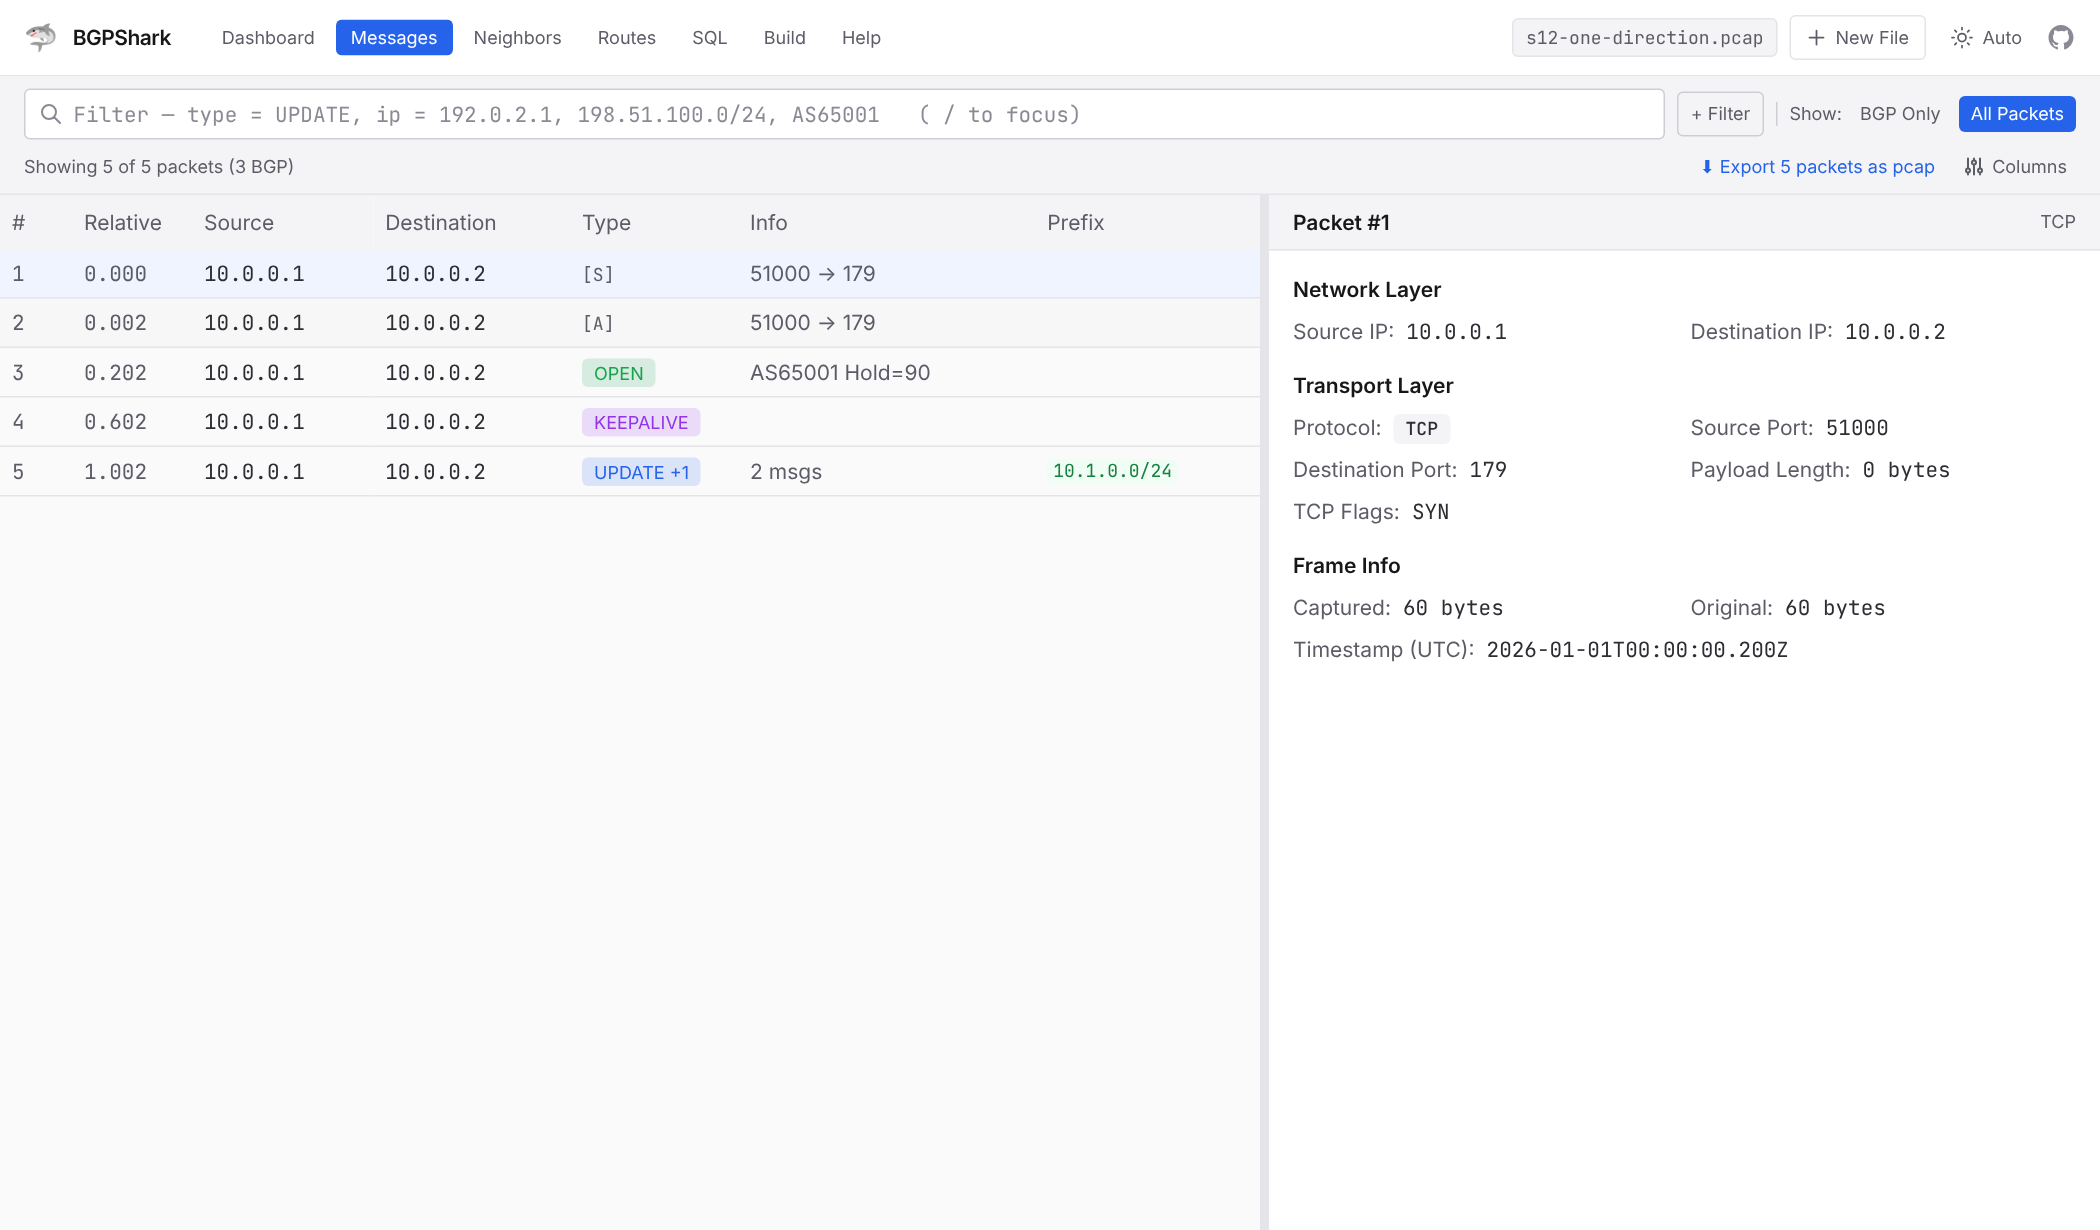
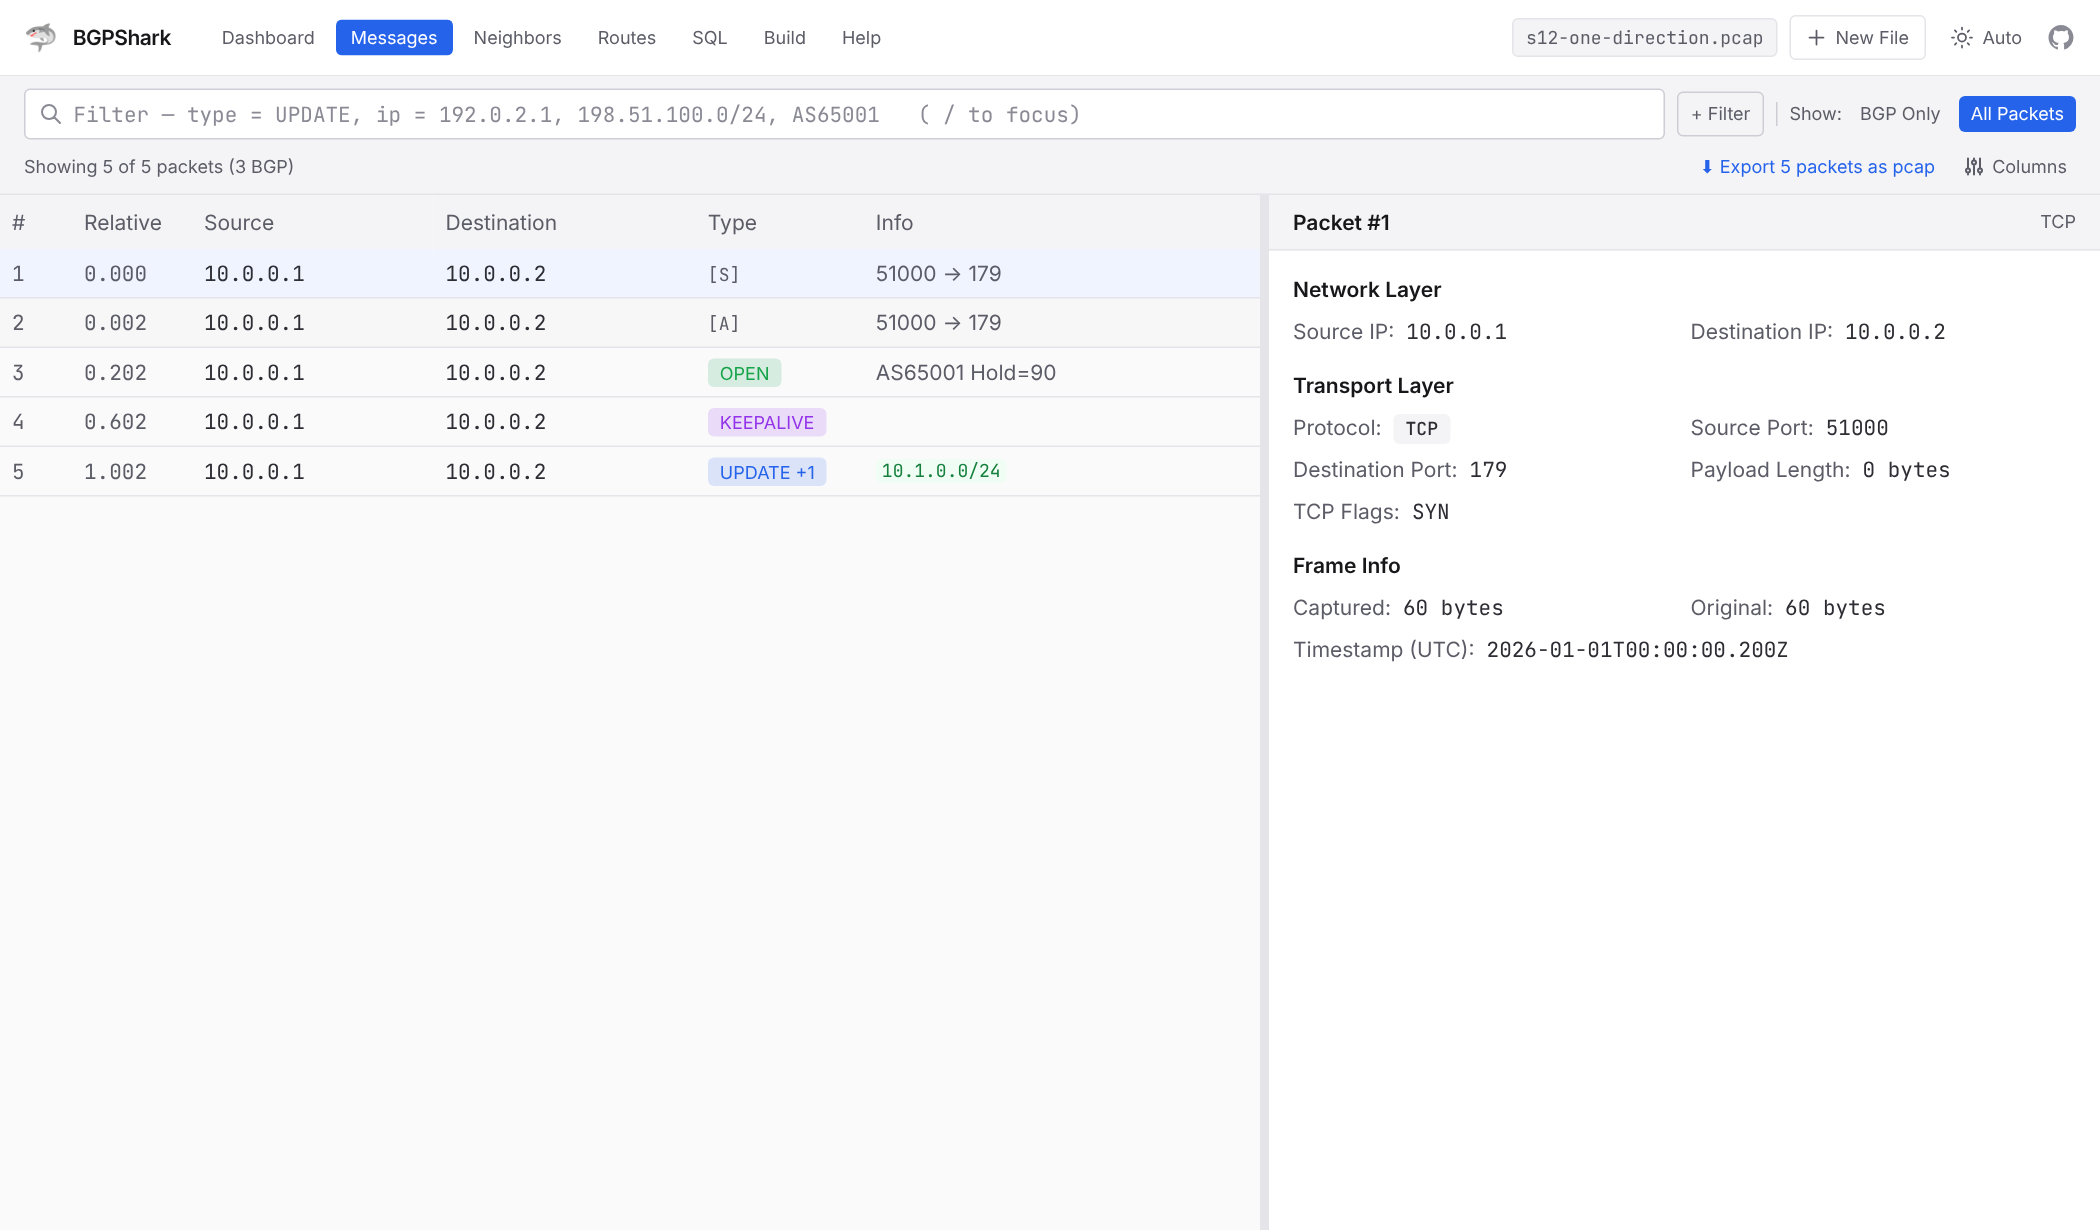
Merge the packet list's Prefix column into Info and drop Clear Filter
Info restated what its neighbours already said: "4 msgs" beside the Type
column's "UPDATE +3", and "2 withdrawn" beside the Prefix column's two
struck-through prefixes. Info now carries an UPDATE's prefixes itself, the
way Wireshark's Info says what a frame is about, and other messages keep
their one-line summary. A saved column set that kept Prefix is mapped onto
Info, so nobody loses their prefixes.

"Clear Filter" did what the x inside the filter box does; the x now has an
accessible name instead.

Closes #87

Claude-Session: https://claude.ai/code/session_016RsczsLRR1XyFcgTKUb7pD

diff --git a/src/components/common/PacketList.tsx b/src/components/common/PacketList.tsx
@@ -167,16 +167,36 @@ const ALL_COLUMNS: ColumnDef[] = [
     },
   },
   {
+    // One column for "what this frame says", the way Wireshark's Info works:
+    // an UPDATE says it with its prefixes, everything else with a line of text.
+    // Prefixes used to have a column of their own beside this one, which left
+    // Info repeating them as counts ("2 withdrawn") or repeating the Type
+    // column's "+3" as "4 msgs".
     id: 'info',
     label: 'Info',
     getValue: (dp) => {
       if (dp.kind === 'bgp') {
         const messages = dp.packet.messages
-        if (messages.length === 1) {
-          return <span className="text-muted truncate">{getMessageSummary(messages[0])}</span>
+        const summary = summarizePacketPrefixes(messages)
+        if (summary && (summary.announced.shown.length > 0 || summary.withdrawn.shown.length > 0)) {
+          const { announced, withdrawn } = summary
+          return (
+            <span className="flex items-center gap-1 min-w-0 overflow-hidden">
+              <PrefixGroupCell group={announced} className="bg-ok-subtle text-ok" />
+              <PrefixGroupCell
+                group={withdrawn}
+                className="bg-critical-subtle text-critical line-through"
+              />
+            </span>
+          )
         }
-        // Multiple messages - show count
-        return <span className="text-muted truncate">{messages.length} msgs</span>
+        // An UPDATE carrying no prefixes is either End-of-RIB or an
+        // attribute-only message; saying so beats a blank cell.
+        if (summary?.endOfRib) {
+          return <span className="text-xs bg-accent-subtle text-accent px-1.5 rounded">End-of-RIB</span>
+        }
+        const text = messages.map(getMessageSummary).filter(Boolean).join('; ')
+        return <span className="text-muted truncate">{text}</span>
       }
       // For generic packets, show port info
       const src = dp.packet.srcPort ?? '?'
@@ -193,35 +213,6 @@ const ALL_COLUMNS: ColumnDef[] = [
         return <span className="font-mono text-muted">{dp.packet.payloadLength}</span>
       }
       return <span className="font-mono text-muted">-</span>
-    },
-  },
-  {
-    id: 'prefix',
-    label: 'Prefix',
-    getValue: (dp) => {
-      if (dp.kind !== 'bgp') return null
-      const summary = summarizePacketPrefixes(dp.packet.messages)
-      if (!summary) return null
-
-      const { announced, withdrawn } = summary
-      if (announced.shown.length === 0 && withdrawn.shown.length === 0) {
-        // An UPDATE carrying no prefixes is either End-of-RIB or an
-        // attribute-only message; saying so beats a blank cell that looks like
-        // the column failed to find anything.
-        return summary.endOfRib ? (
-          <span className="text-xs bg-accent-subtle text-accent px-1.5 rounded">End-of-RIB</span>
-        ) : null
-      }
-
-      return (
-        <span className="flex items-center gap-1 min-w-0 overflow-hidden">
-          <PrefixGroupCell group={announced} className="bg-ok-subtle text-ok" />
-          <PrefixGroupCell
-            group={withdrawn}
-            className="bg-critical-subtle text-critical line-through"
-          />
-        </span>
-      )
     },
   },
   {

diff --git a/src/hooks/usePacketColumns.ts b/src/hooks/usePacketColumns.ts
@@ -21,7 +21,6 @@ export type PacketColumnId =
   | 'protocol'
   | 'type'
   | 'info'
-  | 'prefix'
   | 'asPath'
   | 'nlriCount'
   | 'withdrawnCount'
@@ -41,18 +40,17 @@ export const PACKET_COLUMNS: { id: PacketColumnId; label: string }[] = [
   { id: 'type', label: 'Type' },
   { id: 'info', label: 'Info' },
   { id: 'length', label: 'Len' },
-  { id: 'prefix', label: 'Prefix' },
   { id: 'asPath', label: 'AS Path' },
   { id: 'nlriCount', label: 'NLRI' },
   { id: 'withdrawnCount', label: 'WR' },
 ]
 
 /**
- * `prefix` is on by default because the question people open a BGP capture
- * with — which routes moved — otherwise needs the column picker found first
- * and then a click into every UPDATE. The rest are the frame identity columns.
+ * Info carries an UPDATE's prefixes, so the question people open a BGP capture
+ * with — which routes moved — is answered without the column picker. The rest
+ * are the frame identity columns.
  */
-export const DEFAULT_PACKET_COLUMNS: PacketColumnId[] = ['index', 'time', 'src', 'dst', 'type', 'info', 'prefix']
+export const DEFAULT_PACKET_COLUMNS: PacketColumnId[] = ['index', 'time', 'src', 'dst', 'type', 'info']
 
 const STORAGE_KEY = 'bgpshark-visible-columns'
 
@@ -65,9 +63,11 @@ function loadSavedColumns(): PacketColumnId[] {
   try {
     const saved = localStorage.getItem(STORAGE_KEY)
     if (saved) {
-      const parsed = JSON.parse(saved) as string[]
+      // The Prefix column was folded into Info. Someone who kept Prefix but
+      // hid Info still wants to see prefixes, so the one becomes the other.
+      const parsed = (JSON.parse(saved) as string[]).map((id) => (id === 'prefix' ? 'info' : id))
       const valid = parsed.filter((id): id is PacketColumnId => PACKET_COLUMNS.some((col) => col.id === id))
-      if (valid.length > 0) return valid
+      if (valid.length > 0) return [...new Set(valid)]
     }
   } catch {
     // Unreadable or blocked storage falls back to the defaults.

diff --git a/tests/e2e/info-column.e2e.ts b/tests/e2e/info-column.e2e.ts
@@ -1,0 +1,41 @@
+import { test, expect } from '@playwright/test'
+import { applyFilter, loadSample } from './helpers'
+
+/**
+ * The packet list's Info column, which also carries an UPDATE's prefixes.
+ *
+ * Prefixes used to sit in a column of their own, with Info beside it restating
+ * them as counts ("2 withdrawn") or restating the Type column ("4 msgs"). One
+ * column now says it once.
+ */
+test.describe('the Info column', () => {
+  test('an UPDATE shows its prefixes, and nothing restates them', async ({ page }) => {
+    await loadSample(page)
+    await applyFilter(page, 'type = UPDATE')
+
+    await expect(page.getByRole('columnheader', { name: 'Info' })).toBeVisible()
+    await expect(page.getByRole('columnheader', { name: 'Prefix', exact: true })).toHaveCount(0)
+    const rows = page.locator('tbody [role="row"]')
+    await expect(rows.first()).toContainText(/\d+\.\d+\.\d+\.\d+\/\d+/)
+    await expect(rows.filter({ hasText: /\d+ msgs|\d+ withdrawn|\d+ announced/ })).toHaveCount(0)
+  })
+
+  test('a saved column set that kept Prefix keeps seeing prefixes', async ({ page }) => {
+    await page.addInitScript(() => {
+      localStorage.setItem('bgpshark-visible-columns', JSON.stringify(['index', 'type', 'prefix']))
+    })
+    await loadSample(page)
+    await applyFilter(page, 'type = UPDATE')
+
+    await expect(page.getByRole('columnheader', { name: 'Info' })).toBeVisible()
+    await expect(page.locator('tbody [role="row"]').first()).toContainText(/\d+\.\d+\.\d+\.\d+\/\d+/)
+  })
+
+  test('the filter is cleared from inside the box, with no second button', async ({ page }) => {
+    await loadSample(page)
+    await applyFilter(page, 'type = UPDATE')
+    await expect(page.getByRole('button', { name: 'Clear Filter', exact: true })).toHaveCount(0)
+    await page.getByRole('button', { name: 'Clear filter', exact: true }).click()
+    await expect(page.locator('input[type="text"]').first()).toHaveValue('')
+  })
+})

diff --git a/src/lib/packet-columns.ts b/src/lib/packet-columns.ts
@@ -44,9 +44,10 @@ export interface PacketPrefixSummary {
  * Returns null when the packet carries no UPDATE at all, so the caller renders
  * an empty cell rather than an empty-looking one.
  *
- * Totals come from `countUpdatePrefixes` so this cell can never disagree with
- * the Info column's counts, and only the first few prefixes are ever formatted:
- * a full-table UPDATE carries thousands, and this runs per rendered row.
+ * Totals come from `countUpdatePrefixes` so the "+N" overflow can never
+ * disagree with the detail view's counts, and only the first few prefixes are
+ * ever formatted: a full-table UPDATE carries thousands, and this runs per
+ * rendered row.
  */
 export function summarizePacketPrefixes(
   messages: BgpMessage[],

diff --git a/src/pages/MessagesPage.tsx b/src/pages/MessagesPage.tsx
@@ -613,14 +613,7 @@ function MessagesView() {
             />
           </div>
           <AddFilterPopover valuesFor={valuesFor} onAdd={addCondition} />
-          {query && (
-            <button
-              onClick={() => setQuery('')}
-              className="shrink-0 px-2 py-1.5 text-xs text-muted hover:bg-surface-raised rounded transition-colors"
-            >
-              Clear Filter
-            </button>
-          )}
+          {/* Clearing is the × inside the box; a second button did the same. */}
 
           <div className="h-4 w-px bg-hair-strong shrink-0" />
 

diff --git a/tests/e2e/time-axis.e2e.ts b/tests/e2e/time-axis.e2e.ts
@@ -21,7 +21,7 @@ test.describe('one time axis across filters and screens', () => {
     // clock that restarted at the first row of the filtered list would read 0.
     expect(filtered).not.toBe('0.000')
 
-    await page.getByRole('button', { name: 'Clear Filter' }).click()
+    await page.getByRole('button', { name: 'Clear filter', exact: true }).click()
     await page.waitForTimeout(400)
     await page.locator('input[type="text"]').first().fill(`frame = ${frame}`)
     await page.waitForTimeout(1200)

diff --git a/testlab/screenshots.ts b/testlab/screenshots.ts
@@ -299,7 +299,7 @@ const SHOTS: Shot[] = [
     take: async (page) => {
       await go(page, 'Messages')
       await filter(page, 'mac = 00:0c:29:aa:bb:cc')
-      await page.getByText('1 withdrawn').first().click()
+      await page.locator('tbody [role="row"]').filter({ has: page.locator('.line-through') }).first().click()
       await page.waitForTimeout(600)
       return null
     },

diff --git a/src/components/common/QueryInput.tsx b/src/components/common/QueryInput.tsx
@@ -217,6 +217,8 @@ export function QueryInput({ value, onChange, packets, placeholder, hasError, in
         />
         {value && (
           <button
+            type="button"
+            aria-label="Clear filter"
             onClick={() => {
               onChange('')
               inputRef.current?.focus()

diff --git a/src/pages/manual/manual.md b/src/pages/manual/manual.md
@@ -51,7 +51,7 @@ Alerts detect NOTIFICATIONs, session flapping, withdrawal bursts, route flapping
 
 Shows the packet list, a structured detail pane, and a foldable hex dump. Click any row to inspect decoded fields down to individual capabilities, path attributes, and raw bytes.
 
-The **Info** column summarizes each message (for example, `AS65001 Hold=90` for OPEN, announced/withdrawn counts for UPDATE, or the error name for NOTIFICATION). Empty UPDATE messages are labeled **End-of-RIB**.
+The **Info** column summarizes each message (for example, `AS65001 Hold=90` for OPEN, the announced prefixes and the struck-through withdrawn ones for UPDATE, with `+N` when there are more, or the error name for NOTIFICATION). Empty UPDATE messages are labeled **End-of-RIB**.
 
 Use **Columns** (at the right end of the status bar, above the list) to toggle timestamp and port columns, and **Export** to save the currently filtered packets as a new `.pcap` file (handy for attaching only the relevant frames to a ticket).
 
